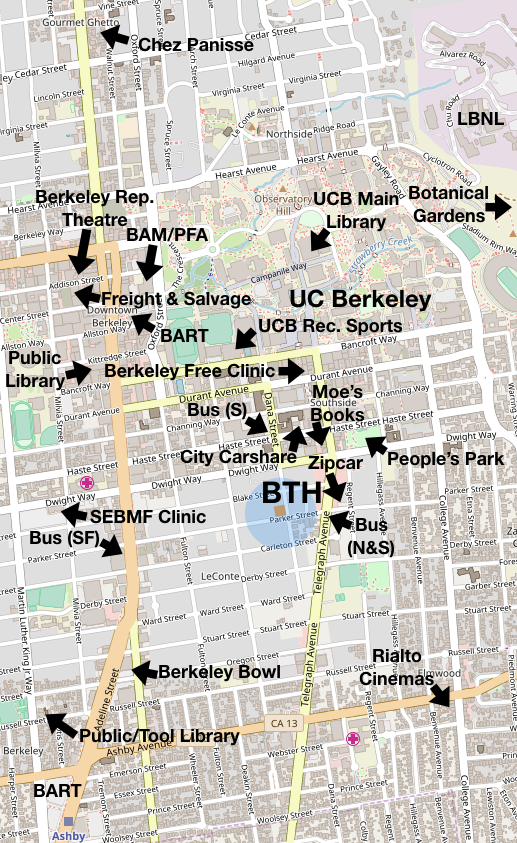
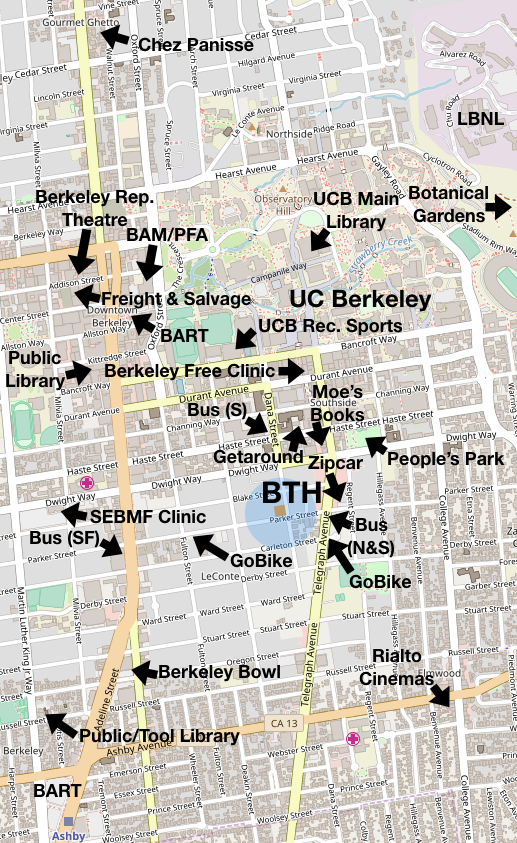
Added transportation facts. Amended map.

diff --git a/index.html b/index.html
@@ -1043,14 +1043,20 @@
           </span>
         </li>
         <li>
-          Local and transbay bus stops
+          Buses to all of East Bay, San Francisco, and Bay Area
           <span id="btn-walk-bus" pic="bus.jpg" class="btn-list btn-info">
             pic
           </span>
         </li>
         <li>
-          Car sharing
+          Car sharing (Zipcar and Getaround)
           <span id="btn-walk-zipcar" pic="zipcar.jpg" class="btn-list btn-info">
+            pic
+          </span>
+        </li>
+        <li>
+          Bicycle sharing (Ford GoBike)
+          <span id="btn-walk-gobike" pic="gobike.jpg" class="btn-list btn-info">
             pic
           </span>
         </li>
